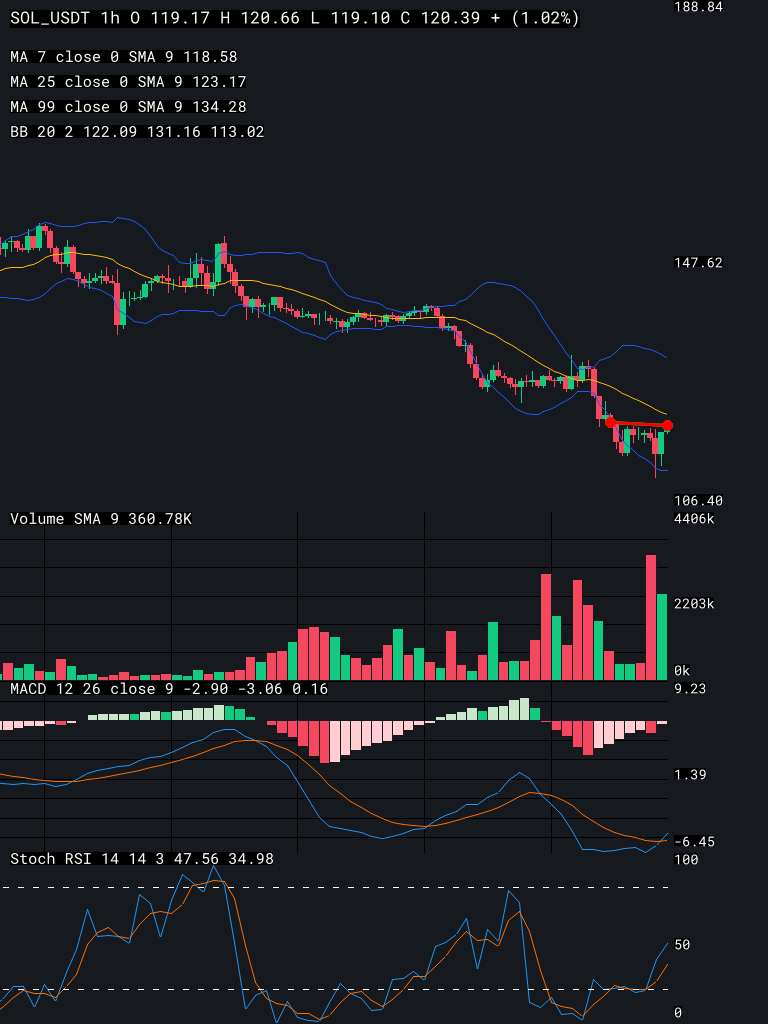
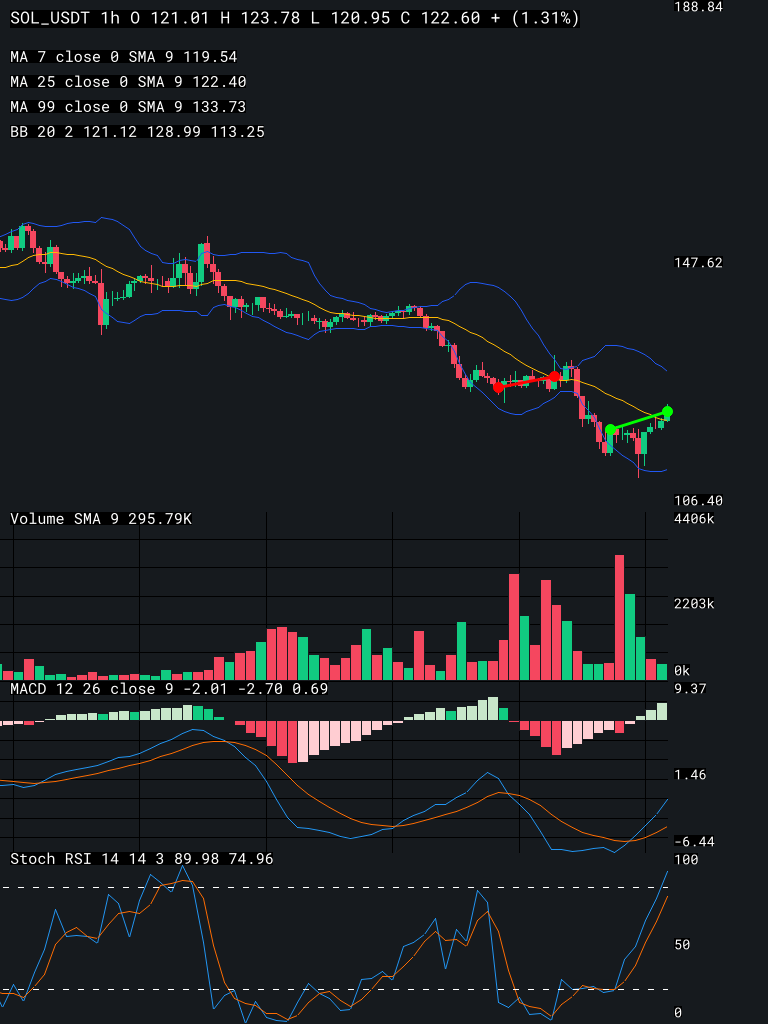
feat: add with signals

diff --git a/feeder/src/charts/candle.rs b/feeder/src/charts/candle.rs
@@ -1,4 +1,3 @@
-use super::helpers::extract_signals;
 use super::helpers::parse_kline_time;
 use super::painters::*;
 use crate::charts::png::encode_png;
@@ -12,13 +11,13 @@ use plotters::prelude::*;
 use std::error::Error;
 
 // Styling structures
-#[derive(Clone)]
+#[derive(Default, Clone)]
 pub struct PointStyle {
     pub radius: i32,
     pub color: RGBColor,
 }
 
-#[derive(Clone)]
+#[derive(Default, Clone)]
 pub struct LineStyle {
     pub stroke_width: i32,
     pub color: RGBColor,
@@ -33,11 +32,13 @@ pub struct LabelStyle {
     pub offset_y: i32,
 }
 
+#[derive(Default, Clone)]
 pub struct ChartMetaData {
     pub title: String,
 }
 
 // Chart struct
+#[derive(Default, Clone)]
 pub struct Chart {
     pub timezone: Tz,
     pub timeframe: String,
@@ -54,30 +55,17 @@ pub struct Chart {
     pub macd_enabled: bool,
     pub bollinger_enabled: bool,
     pub volume_enabled: bool,
-    pub stoch_rsi_enabled: bool, // New field
+    pub stoch_rsi_enabled: bool,
+    pub long_signals: Vec<(i64, i64, f32, f32)>, // (entry_time, target_time, entry_price, target_price)
+    pub short_signals: Vec<(i64, i64, f32, f32)>, // (entry_time, target_time, entry_price, target_price)
 }
 
 impl Chart {
     pub fn new(timeframe: &str, timezone: Tz) -> Self {
         Chart {
-            timezone,
             timeframe: timeframe.to_string(),
-            past_candle_data: None,
-            metadata: ChartMetaData {
-                title: String::new(),
-            },
-            font_data: None,
-            candle_width: 10,
-            points: Vec::new(),
-            point_style: None,
-            lines: Vec::new(),
-            line_style: None,
-            labels: Vec::new(),
-            label_style: None,
-            macd_enabled: false,
-            bollinger_enabled: false,
-            volume_enabled: false,
-            stoch_rsi_enabled: false,
+            timezone,
+            ..Default::default()
         }
     }
 
@@ -179,6 +167,16 @@ impl Chart {
         self
     }
 
+    pub fn with_long_signals(mut self, signals: Vec<(i64, i64, f32, f32)>) -> Self {
+        self.long_signals = signals;
+        self
+    }
+
+    pub fn with_short_signals(mut self, signals: Vec<(i64, i64, f32, f32)>) -> Self {
+        self.short_signals = signals;
+        self
+    }
+
     pub fn build(self) -> Result<Vec<u8>, Box<dyn Error>> {
         if self.past_candle_data.is_none() {
             return Err("Candle data set is required".into());
@@ -226,26 +224,6 @@ impl Chart {
         let min_price = prices.iter().fold(f32::INFINITY, |a, &b| a.min(b));
         let max_price = prices.iter().fold(f32::NEG_INFINITY, |a, &b| a.max(b));
 
-        // Generate mock signals based on the last candle
-        let mut long_signals = Vec::new();
-        let mut short_signals = Vec::new();
-
-        if all_candle_data.len() >= 11 {
-            let last_candle = &all_candle_data[all_candle_data.len() - 1];
-            let last_minus_10_candle = &all_candle_data[all_candle_data.len() - 11];
-
-            let entry_price = last_minus_10_candle.close_price.parse::<f32>().unwrap();
-            let target_price = last_candle.close_price.parse::<f32>().unwrap();
-            let entry_time = last_minus_10_candle.open_time;
-            let target_time = last_candle.open_time;
-
-            // Mock long signal
-            long_signals.push((entry_time, target_time, entry_price, target_price));
-
-            // Mock short signal
-            short_signals.push((entry_time, target_time, entry_price, target_price));
-        }
-
         // Scope for drawing operations
         {
             let mut root = BitMapBackend::with_buffer(&mut buffer, bar).into_drawing_area();
@@ -267,8 +245,14 @@ impl Chart {
             let mut top_chart = ChartBuilder::on(&root.split_vertically((50).percent()).0)
                 .margin_right(margin_right)
                 .build_cartesian_2d(first_time..last_time, min_price * 0.95..max_price * 1.05)?;
-            draw_point_on_candle(&mut top_chart, timezone, &long_signals, &short_signals)?;
-        }
+
+            draw_point_on_candle(
+                &mut top_chart,
+                timezone,
+                &self.long_signals,
+                &self.short_signals,
+            )?;
+        } // `root` goes out of scope here, ending the borrow of `buffer`
 
         // Create imgbuf after root is dropped
         let mut imgbuf: ImageBuffer<Rgb<u8>, Vec<u8>> = ImageBuffer::new(plot_width, height);
@@ -354,10 +338,63 @@ mod test {
         let timeframe = "1h";
         let font_data = include_bytes!("../../RobotoMono-Regular.ttf").to_vec();
 
-        let limit = 24 * 10;
+        let limit = 24 * 10; // 240 candles, enough for iteration
         let candle_data = fetch_binance_kline_data::<Kline>(pair_symbol, timeframe, limit)
             .await
             .unwrap();
+
+        // Generate mock signals based on fixed candle ranges
+        let mut long_signals = Vec::new();
+        let mut short_signals = Vec::new();
+
+        if candle_data.len() >= 31 {
+            // Long signal: entry at last - 10, target at last
+            let last_candle = &candle_data[candle_data.len() - 1];
+            let last_minus_10_candle = &candle_data[candle_data.len() - 11]; // last - 10
+
+            let long_entry_time = last_minus_10_candle.open_time;
+            let long_entry_price = last_minus_10_candle.close_price.parse::<f32>().unwrap();
+            let long_target_time = last_candle.open_time;
+            let long_target_price = last_candle.close_price.parse::<f32>().unwrap();
+
+            long_signals.push((
+                long_entry_time,
+                long_target_time,
+                long_entry_price,
+                long_target_price,
+            ));
+
+            // Short signal: entry at last - 30, target at last - 20
+            let last_minus_30_candle = &candle_data[candle_data.len() - 31]; // last - 30
+            let last_minus_20_candle = &candle_data[candle_data.len() - 21]; // last - 20
+
+            let short_entry_time = last_minus_30_candle.open_time;
+            let short_entry_price = last_minus_30_candle.close_price.parse::<f32>().unwrap();
+            let short_target_time = last_minus_20_candle.open_time;
+            let short_target_price = last_minus_20_candle.close_price.parse::<f32>().unwrap();
+
+            short_signals.push((
+                short_entry_time,
+                short_target_time,
+                short_entry_price,
+                short_target_price,
+            ));
+
+            // Debug prints to verify
+            println!(
+                "Long Signal: Entry Time: {}, Entry Price: {}, Target Time: {}, Target Price: {}",
+                long_entry_time, long_entry_price, long_target_time, long_target_price
+            );
+            println!(
+                "Short Signal: Entry Time: {}, Entry Price: {}, Target Time: {}, Target Price: {}",
+                short_entry_time, short_entry_price, short_target_time, short_target_price
+            );
+        } else {
+            println!(
+                "Not enough candles to generate mock signals. Need at least 31 candles, got {}",
+                candle_data.len()
+            );
+        }
 
         let png = Chart::new(timeframe, Tokyo)
             .with_candle_width(6)
@@ -368,8 +405,8 @@ mod test {
             .with_macd()
             .with_stoch_rsi()
             .with_bollinger_band()
-            // .with_labels(vec![(0.75, 0.25, "71% BULL".to_string())])
-            // .with_label_style(20.0, 20.0, Rgb([0, 0, 255]), Rgb([0, 255, 255]), 10, 5)
+            .with_long_signals(long_signals)
+            .with_short_signals(short_signals)
             .build()
             .unwrap();
 
